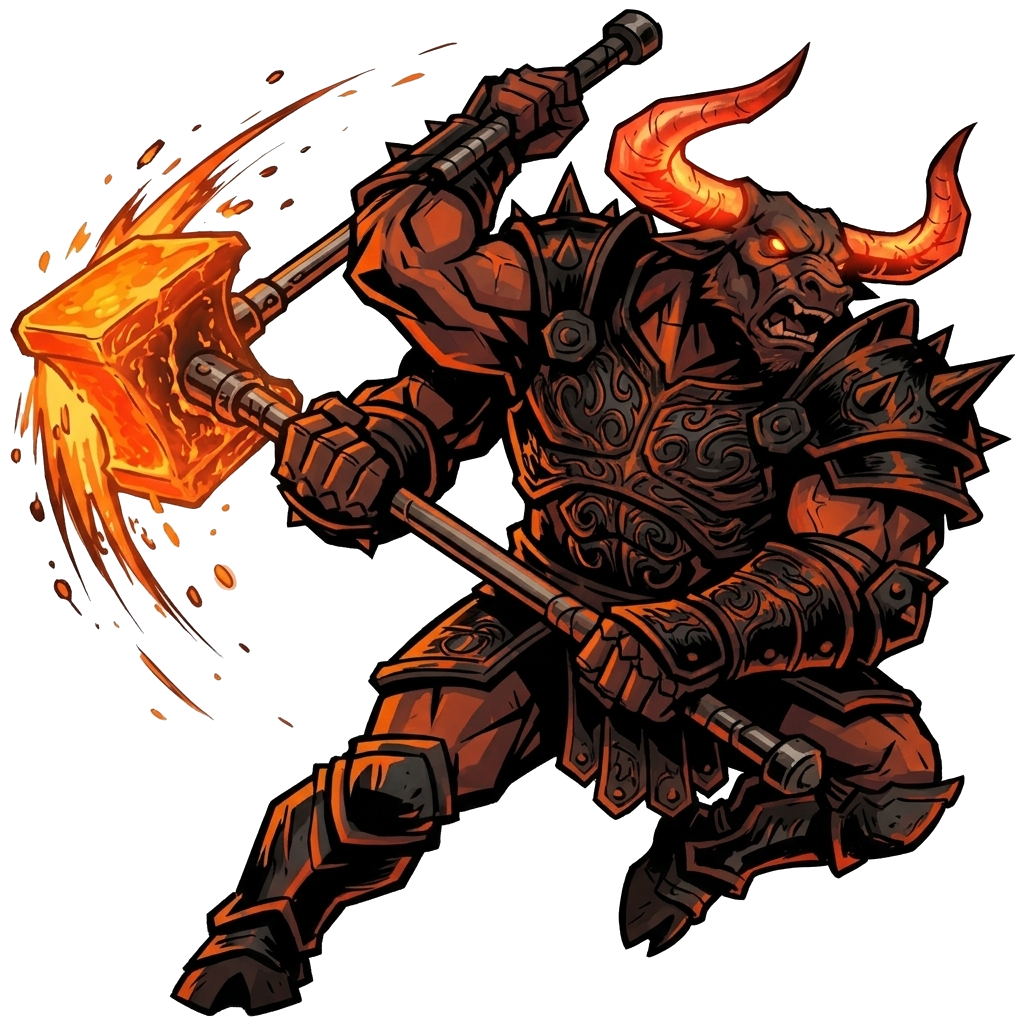
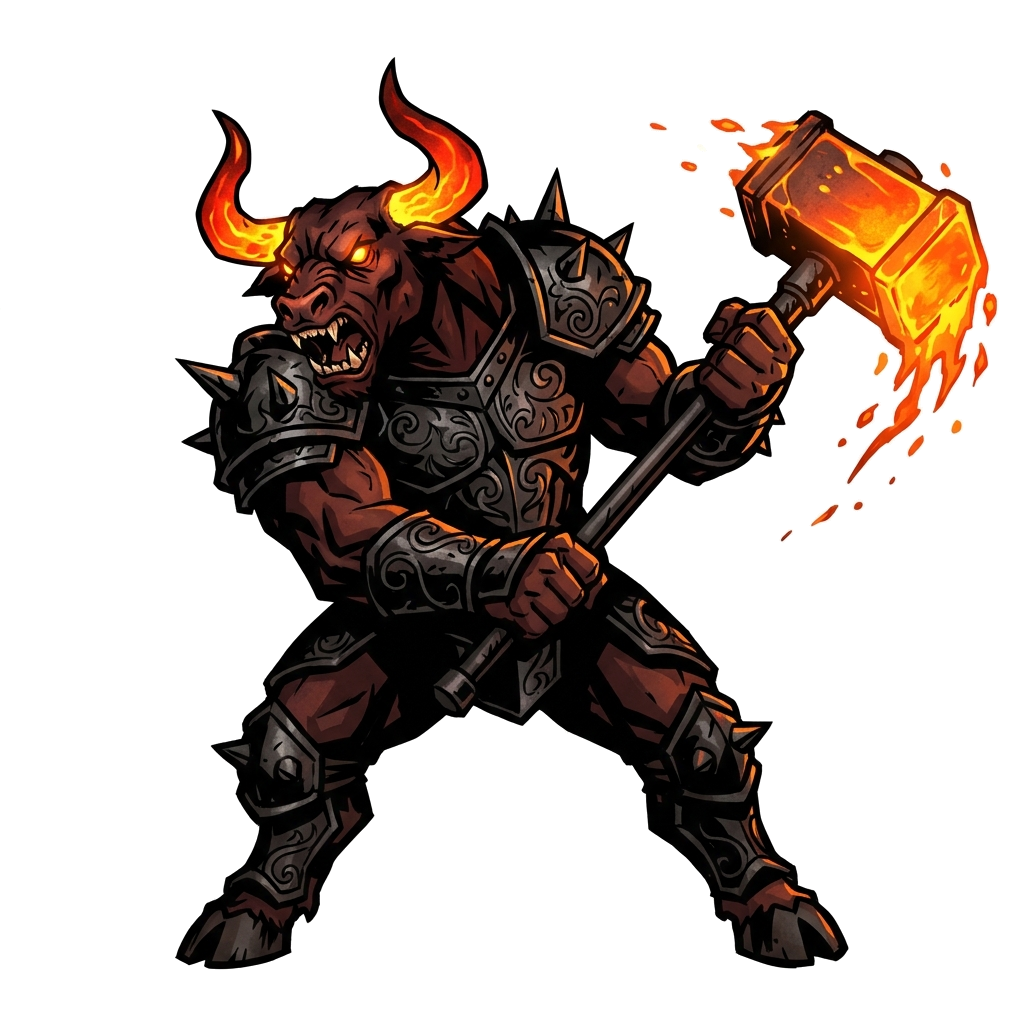
fix(art): regenerate Minotauro de Chifres em Brasa with anatomically correct two arms and single molten warhammer

diff --git a/src/data/cards.ts b/src/data/cards.ts
@@ -15604,7 +15604,7 @@ export const ALL_CARDS: CardDefinition[] = [
     "description": "Ímpeto, Atropelar. Investe imediatamente atropelando a linha de frente.",
     "flavorText": "Nenhuma parede do labirinto fica de pé quando ele decide abrir um atalho.",
     "imagePath": "/assets/cards/red_78_minotauro_forja.png",
-    "aiArtPrompt": "2D dark fantasy video game character sticker, dark fantasy graphic novel cel-shaded art style, bold black ink outlines, sharp geometric cel-shading, isolated full-body subject centered on a pure solid flat white background (#FFFFFF), hulking volcanic minotaur with glowing red-hot iron horns and a molten greataxe mid-charge."
+    "aiArtPrompt": "2D dark fantasy video game character sticker, dark fantasy graphic novel cel-shaded art style, bold black ink outlines, sharp geometric cel-shading, isolated full-body subject centered on a pure solid flat white background (#FFFFFF), hulking volcanic minotaur warrior in blackened spiked plate armor with glowing red-hot iron horns and two muscular arms gripping a single massive molten forge warhammer."
   },
   {
     "id": "red_79_draco_meteoro",
